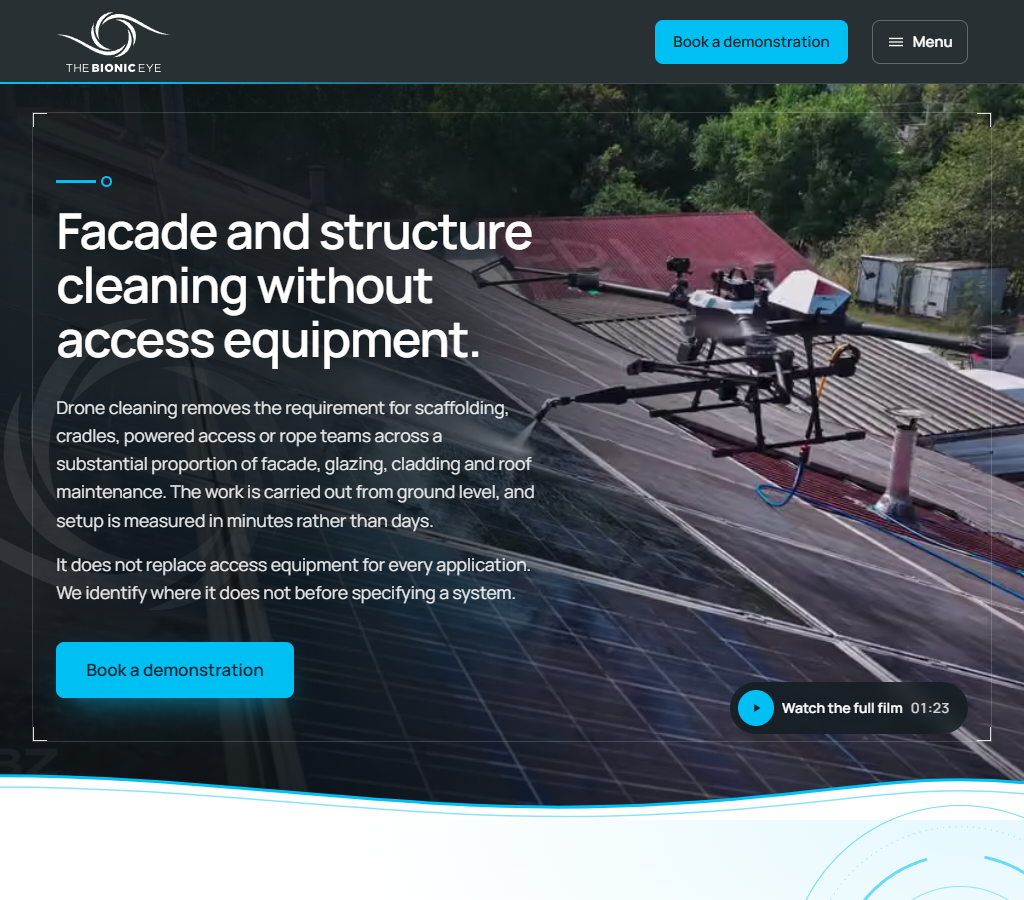
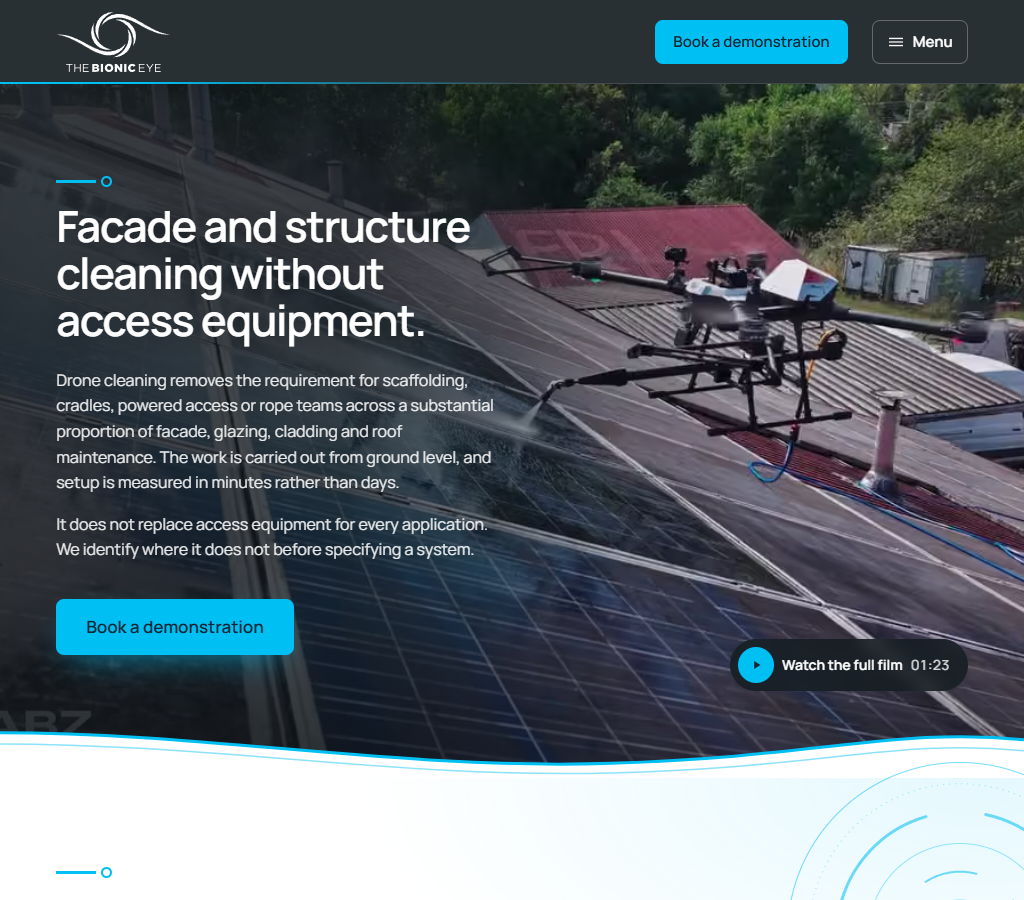
feat: lighter hero (refinement 6)
Owner's request: smaller hero text, a little less shade on the left, and no
large transparent logo or thin frame.

- Headline 32 px at 360 to 50 px at 1440 (was 36 to 58); three lines on phones
- Introduction at 16 px with a narrower reading zone (448 to 528 px)
- Lighter directional scrim whose stops follow the copy (wider below 1280 px)
- Eye watermark and frame boundary removed from the hero on every width
- hero-contrast.mjs also measures 1920; lowest P95 now 5.88:1 (was 4.92:1)
- Design note: headline size 58px -> 50px (93 words)

diff --git a/src/app/globals.css b/src/app/globals.css
@@ -152,7 +152,7 @@
 
   /* ---------- Type ---------- */
   .t-h1 {
-    font-size: clamp(2.25rem, 1.792rem + 2.037vw, 3.625rem); /* 36 at 360 → 58 at 1440 */
+    font-size: clamp(2rem, 1.625rem + 1.667vw, 3.125rem); /* 32 at 360 → 50 at 1440 */
     line-height: 1.09;
     font-weight: 600;
     letter-spacing: -0.026em;
@@ -897,10 +897,12 @@
     background: linear-gradient(0deg, rgb(11 17 20 / 0.55) 0%, rgb(11 17 20 / 0) 38%);
   }
 
+  /* The introduction sets one step below body size, so the film keeps the lead. */
   .hero__intro {
     display: grid;
     gap: 1rem;
     margin-top: 1.75rem;
+    font-size: 1rem;
     color: rgb(255 255 255 / 0.9);
   }
 
@@ -910,15 +912,6 @@
 
   .hero__actions .btn {
     width: 100%;
-  }
-
-  /* Watermark: the supplied eye, cropped off the dark outer edge. */
-  .hero__mark {
-    z-index: 1;
-    width: 30rem;
-    right: -13rem;
-    bottom: 5rem;
-    opacity: 0.06;
   }
 
   /* Control group: Play/Pause follows playback; "Watch the full film" opens the complete film. */
@@ -997,10 +990,6 @@
     }
   }
 
-  .hero__frame {
-    display: none;
-  }
-
   /* The CTA carries a soft cyan glow and lifts slightly on hover. */
   .hero .btn-primary {
     box-shadow: 0 14px 34px -14px rgb(0 191 243 / 0.75);
@@ -1056,13 +1045,12 @@
       align-items: center;
     }
 
-    /* Reading zone: 480px at 1024 growing to 600px at 1440, so the copy never reaches the drone. */
+    /* Reading zone: 448px at 1024 growing to 528px at 1440, so the copy never reaches the drone. */
     .hero__grid {
-      grid-template-columns: minmax(0, clamp(30rem, 28.85vw + 11.54rem, 37.5rem)) minmax(0, 1fr);
+      grid-template-columns: minmax(0, clamp(28rem, 19.23vw + 15.69rem, 33rem)) minmax(0, 1fr);
       padding-block: 6rem calc(var(--hero-wave-h) + 3.5rem);
       position: static;
-      /* As a grid item of .hero, a z-index would still create a stacking context and lift the film
-         above the watermark; auto lets the film, watermark, frame and copy layer in .hero itself. */
+      /* The film and the copy layer in .hero itself, under the wing edge. */
       z-index: auto;
     }
 
@@ -1099,23 +1087,25 @@
       object-position: 62% 50%;
     }
 
-    /* Directional: strongest behind the copy, open around the drone and its jet. */
+    /* Directional: strongest behind the copy, open around the drone and its jet. Kept light, ending
+       just past the copy, with the text contrast checked by scripts/qa/hero-contrast.mjs. Below
+       1280px the copy takes a larger share of the width, so the shade reaches a little further. */
     .hero__scrim {
       background:
         linear-gradient(
           90deg,
-          rgb(11 17 20 / 0.9) 0%,
-          rgb(11 17 20 / 0.85) 30%,
-          rgb(11 17 20 / 0.66) 44%,
-          rgb(11 17 20 / 0.22) 60%,
-          rgb(11 17 20 / 0) 72%
+          rgb(11 17 20 / 0.8) 0%,
+          rgb(11 17 20 / 0.72) 34%,
+          rgb(11 17 20 / 0.5) 48%,
+          rgb(11 17 20 / 0.14) 62%,
+          rgb(11 17 20 / 0) 74%
         ),
-        linear-gradient(0deg, rgb(11 17 20 / 0.5) 0%, rgb(11 17 20 / 0) 28%);
+        linear-gradient(0deg, rgb(11 17 20 / 0.45) 0%, rgb(11 17 20 / 0) 26%);
     }
 
     .hero__intro {
-      margin-top: 1.75rem;
-      max-width: 35rem;
+      margin-top: 1.5rem;
+      max-width: 32rem;
     }
 
     .hero__actions {
@@ -1126,45 +1116,25 @@
       width: auto;
     }
 
-    /* The eye symbol, large, behind the reading zone, fading out before the drone. */
-    .hero__mark {
-      z-index: 1;
-      width: clamp(46rem, 68vw, 64rem);
-      left: calc(-0.3 * clamp(46rem, 68vw, 64rem));
-      right: auto;
-      top: 50%;
-      bottom: auto;
-      transform: translateY(-46%);
-      opacity: 0.085;
-      mask-image: linear-gradient(to right, #000 38%, transparent 80%);
-    }
-
-    /* Fine frame boundary at the content edges, with framing marks at its corners. */
-    .hero__frame {
-      --m: 14px;
-      --c: rgb(255 255 255 / 0.85);
-      --x: max(calc(var(--gutter) - 1.5rem), calc((100% - var(--content-max)) / 2 - 1.5rem));
-      display: block;
-      position: absolute;
-      z-index: 1;
-      inset: 1.75rem var(--x) calc(var(--hero-wave-h) + 0.75rem) var(--x);
-      pointer-events: none;
-      border: 1px solid rgb(255 255 255 / 0.16);
-      background:
-        linear-gradient(var(--c), var(--c)) top left / var(--m) 1px,
-        linear-gradient(var(--c), var(--c)) top left / 1px var(--m),
-        linear-gradient(var(--c), var(--c)) top right / var(--m) 1px,
-        linear-gradient(var(--c), var(--c)) top right / 1px var(--m),
-        linear-gradient(var(--c), var(--c)) bottom left / var(--m) 1px,
-        linear-gradient(var(--c), var(--c)) bottom left / 1px var(--m),
-        linear-gradient(var(--c), var(--c)) bottom right / var(--m) 1px,
-        linear-gradient(var(--c), var(--c)) bottom right / 1px var(--m);
-      background-repeat: no-repeat;
-    }
-
     .hero__controls {
       right: max(var(--gutter), calc((100% - var(--content-max)) / 2));
       bottom: calc(var(--hero-wave-h) + 1.25rem);
+    }
+  }
+
+  /* From 1280px the copy ends near 44% of the width, so the shade can end earlier too. */
+  @media (width >= 80rem) {
+    .hero__scrim {
+      background:
+        linear-gradient(
+          90deg,
+          rgb(11 17 20 / 0.8) 0%,
+          rgb(11 17 20 / 0.72) 28%,
+          rgb(11 17 20 / 0.5) 42%,
+          rgb(11 17 20 / 0.14) 58%,
+          rgb(11 17 20 / 0) 70%
+        ),
+        linear-gradient(0deg, rgb(11 17 20 / 0.45) 0%, rgb(11 17 20 / 0) 26%);
     }
   }
 

diff --git a/src/components/sections/hero.tsx b/src/components/sections/hero.tsx
@@ -1,6 +1,5 @@
 import { cta, hero } from "@/content/copy";
 import { films } from "@/content/media";
-import { BrandMark } from "../brand-mark";
 import { HeroWave } from "../decor";
 import { HeroFilm } from "../video/hero-background";
 
@@ -8,15 +7,12 @@ import { HeroFilm } from "../video/hero-background";
  * Hero. One copy of the content in reading order: headline → film → introduction → action.
  * Phones stack it in that order on one dark surface. From 1024px the film becomes the full-bleed
  * environment: the copy sits in a protected reading zone at left, the drone and its jet stay clear
- * at right. Identity details frame it: the supplied eye symbol as a large watermark fading out
- * behind the reading zone, a fine frame boundary, the section rule with its lens ring above the
- * headline, and a curved wing edge whose cyan line draws itself once as the page opens.
+ * at right. Two identity details only, so the film stays open: the section rule with its lens ring
+ * above the headline, and a curved wing edge whose cyan line draws itself once as the page opens.
  */
 export function Hero() {
   return (
     <section id="top" aria-labelledby="hero-heading" className="hero">
-      <BrandMark className="hero__mark" />
-      <div className="hero__frame" aria-hidden="true" />
       <div className="shell hero__grid">
         <span className="accent-rule hero__rule hero-in" aria-hidden="true" style={{ ["--i" as string]: 0 }} />
         <h1 id="hero-heading" className="t-h1 hero__title hero-in" style={{ ["--i" as string]: 0 }}>

diff --git a/docs/ASSET_CLEANING_REFINEMENT_6.md b/docs/ASSET_CLEANING_REFINEMENT_6.md
@@ -1,0 +1,36 @@
+# Asset Cleaning — refinement 6: a lighter hero
+
+14 October 2026. Owner's request: make the hero text smaller, lighten the shade on the left a little, and remove the large transparent logo and the thin frame. Copy, media and section order are unchanged. Comparison at 1440 and 390: `docs/refinement-6/before-after-hero.jpg`.
+
+## Changes
+
+- **Smaller type.**
+  - The headline (the page's only `.t-h1`) now runs from 32 px at 360 to 50 px at 1440 (was 36 → 58). On phones it sets in three lines instead of four.
+  - The introduction sets at 16 px (was 17–18 px), with a 32 rem measure on desktop (was 35 rem).
+- **Narrower reading zone:** 448 px at 1024 growing to 528 px at 1440 (was 480 → 600). The copy ends earlier, so more of the film shows.
+- **Lighter shade on the left.**
+  - The directional scrim starts at 80 % instead of 90 % and fades sooner.
+  - Its stops follow the copy:
+    - From 1280 px the copy ends near 44 % of the width, so the shade fades out by 70 %.
+    - Below 1280 px the copy reaches up to 48 %, so the shade runs a little further, to 74 %.
+  - The bottom shade under the controls is 45 % instead of 50 %.
+- **Removed on every width:**
+  - the large eye watermark, which on phones also sat at the lower right;
+  - the fine frame boundary with its corner marks.
+- **Kept:** the section rule above the headline, the CTA glow, the pulse ring on "Watch the full film", and the curved wing edge. The eye symbol remains in the Enquiry section.
+
+## Verification
+
+- lint · typecheck · build: pass.
+- `interaction.mjs`: 63/63 PASS, with axe-core 0 violations at 1440 and 390.
+- `hero-contrast.mjs`, now also run at 1920 (1920, 1440, 1280, 1024): all PASS.
+  - The lowest P95 is 5.88:1, for intro paragraph 1 at 1280 (needs 4.5:1).
+  - At 1024 the lowest is 6.02:1, against 4.92:1 before. Removing the watermark and the smaller copy more than offset the lighter shade.
+- `copy-audit.mjs`: 0 unverified (73 strings: 68 verbatim, 5 announcements).
+- Design note (`08_DESIGN_NOTE.md`): "58px" is now "50px"; 93 words (limit 100).
+- Exports refreshed:
+  - 1440 × 9039 and 1024 × 8566 full page;
+  - 390 @2x full page, 780 × 24140;
+  - hero + Applications, 780 × 7330;
+  - PNG + PDF for the contest files;
+  - first-viewport screens at six widths.

diff --git a/README.md b/README.md
@@ -23,7 +23,7 @@ No environment variables are required (see `.env.example`).
 
 Next.js 16 (App Router, static) · React 19 · TypeScript · Tailwind CSS 4 · Manrope via `next/font` (one family) · GSAP 3 + ScrollTrigger + `@gsap/react` for the cleaning-system scene and a few entrances (CSS for simple states) · no backend.
 
-Current design: [`docs/ASSET_CLEANING_REFINEMENT_5.md`](docs/ASSET_CLEANING_REFINEMENT_5.md) (hero and Applications polish) and [`docs/ASSET_CLEANING_REFINEMENT_4.md`](docs/ASSET_CLEANING_REFINEMENT_4.md) (balanced Applications, films that play in place, brand ornaments), building on [`docs/ASSET_CLEANING_REFINEMENT_3.md`](docs/ASSET_CLEANING_REFINEMENT_3.md) (14 October 2026), covering the product explorer, the cleaning-system scene, the full-resolution asset map, decoration layers, motion, skills and QA. Source differences between the contest copy and the announcement, and the content removed for lack of a source, remain in [`docs/ASSET_CLEANING_REFINEMENT_2.md`](docs/ASSET_CLEANING_REFINEMENT_2.md) §3.
+Current design: [`docs/ASSET_CLEANING_REFINEMENT_6.md`](docs/ASSET_CLEANING_REFINEMENT_6.md) (a lighter hero: smaller type, lighter shade, no watermark or frame), [`docs/ASSET_CLEANING_REFINEMENT_5.md`](docs/ASSET_CLEANING_REFINEMENT_5.md) (hero and Applications polish) and [`docs/ASSET_CLEANING_REFINEMENT_4.md`](docs/ASSET_CLEANING_REFINEMENT_4.md) (balanced Applications, films that play in place, brand ornaments), building on [`docs/ASSET_CLEANING_REFINEMENT_3.md`](docs/ASSET_CLEANING_REFINEMENT_3.md) (14 October 2026), covering the product explorer, the cleaning-system scene, the full-resolution asset map, decoration layers, motion, skills and QA. Source differences between the contest copy and the announcement, and the content removed for lack of a source, remain in [`docs/ASSET_CLEANING_REFINEMENT_2.md`](docs/ASSET_CLEANING_REFINEMENT_2.md) §3.
 
 **Status:** Claude-assisted **internal prototype**. The contest currently prohibits AI-generated layouts and images, so this build and its exports are not a contest entry unless the organiser permits it.
 

diff --git a/design-handoff/the-bionic-eye-asset-cleaning/08_DESIGN_NOTE.md b/design-handoff/the-bionic-eye-asset-cleaning/08_DESIGN_NOTE.md
@@ -1,11 +1,11 @@
 # 08 · Design note (typeface and colour)
 
 <!-- note:start -->
-Typeface — Manrope only, in four weights: 600 for headings and figures, 400–500 for reading text, labels and controls. One geometric grotesque keeps the page engineered and calm; the headline stays at 58px so the footage leads, and the five specifications use large lining figures with their qualifiers kept in line.
+Typeface — Manrope only, in four weights: 600 for headings and figures, 400–500 for reading text, labels and controls. One geometric grotesque keeps the page engineered and calm; the headline stays at 50px so the footage leads, and the five specifications use large lining figures with their qualifiers kept in line.
 
 Colour — graphite surfaces with The Bionic Eye's cyan (#00BFF3) given one broad plane behind the C10's white product stage, plus actions, rules and selected states. Cyan carries dark ink text (7.2:1); links on white use darker cyan (#00758F). All text meets WCAG AA.
 <!-- note:end -->
 
 Word count (text between the markers, counted by script): see `qa/design-note-wordcount.txt`.
 
-This note describes the Claude-assisted internal prototype (refinement 3, 14 October 2026). The contest currently prohibits AI-generated layouts and images, so it must not be submitted as the entry unless the organiser permits it.
+This note describes the Claude-assisted internal prototype (refinement 6, 14 October 2026). The contest currently prohibits AI-generated layouts and images, so it must not be submitted as the entry unless the organiser permits it.

diff --git a/design-handoff/the-bionic-eye-asset-cleaning/06_FIGMA_BUILD_SPEC.md b/design-handoff/the-bionic-eye-asset-cleaning/06_FIGMA_BUILD_SPEC.md
@@ -1,5 +1,13 @@
 # 06 · Figma build specification
 
+> **Refinement 6 (14 October 2026).** Hero only:
+> - H1 is 50 px at 1440 and 32 px at 390 (was 58 / 36).
+> - The hero introduction is 16 px.
+> - The hero scrim is lighter (values in `src/app/globals.css`, `.hero__scrim`).
+> - There is no eye watermark and no frame boundary in the hero.
+>
+> See `docs/ASSET_CLEANING_REFINEMENT_6.md` and the refreshed exports.
+>
 > **Refinement 3 (14 October 2026).** New components to build: `Product stage` (View = Side / Three-quarter / Front, with a nozzle callout on Side and Front), `View option` (State = Default / Selected), `Callout` (Direction = Up-right / Down-left / Right), `Detail frame`, `Cleaning-system pair` (State = Operation / Nozzle / Pair), `Media viewer` and `Hero control group`. Use the current exports, which show the static pair. No Figma file was created in this session.
 >
 > **Superseded in part (13 October 2026).** Use the current exports in `exports/` and the tokens and type scale in `docs/ASSET_CLEANING_REFINEMENT_2.md` §4. A Figma connector is now attached to the Claude session; no Figma file has been created yet. Because the contest currently prohibits AI-generated layouts, any Figma file made from this Claude-assisted prototype is for internal handover only.

diff --git a/design-handoff/the-bionic-eye-asset-cleaning/05_GITHUB_VERCEL_HANDOFF.md b/design-handoff/the-bionic-eye-asset-cleaning/05_GITHUB_VERCEL_HANDOFF.md
@@ -1,5 +1,17 @@
 # 05 · GitHub and Vercel handoff
 
+## Refinement 6 (14 October 2026)
+
+```
+Implementation:     BUILT — lighter hero at the owner's request: smaller headline and introduction, lighter
+                    left shade, eye watermark and frame boundary removed. See docs/ASSET_CLEANING_REFINEMENT_6.md
+Local build:        PASS — lint, typecheck, build
+QA:                 63/63 interaction + axe checks PASS; hero contrast PASS at 1920/1440/1280/1024 (lowest
+                    5.88:1); copy audit 0 unverified; design note 93 words
+GitHub:             branch refinement-6-hero-lighter; main to be fast-forwarded once QA passes (owner's request)
+Environment keys:   none
+```
+
 ## Refinement 5 (14 October 2026)
 
 ```
